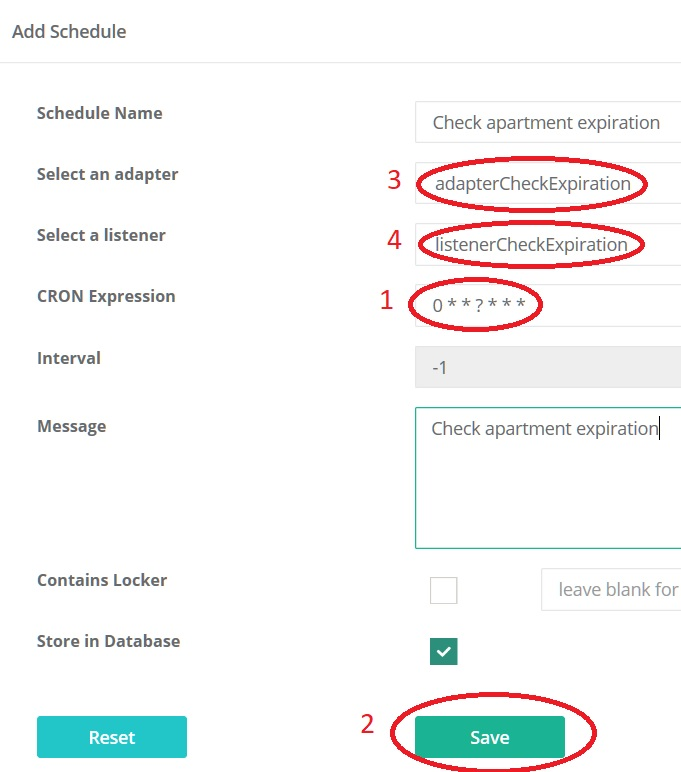
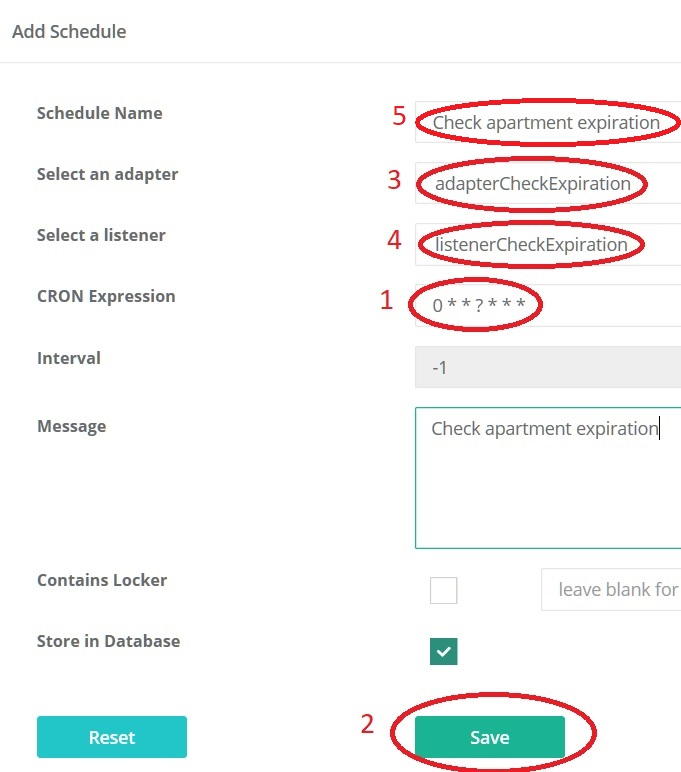
Correct previous commit and improve section on scheduling

Changed region(s): [[0.5859, 0.1244, 1.0, 0.2176]]

diff --git a/docs/source/operator/scheduling.rst b/docs/source/operator/scheduling.rst
@@ -7,13 +7,19 @@ Scheduling
 
 This section explains how to schedule tasks for periodic execution. This is very useful for batch processing jobs. You can also schedule tasks to do sanity checks of your site. You will practice with a sanity check for the database of the imaginary company New Horizons, see section :ref:`frankConsoleNewHorizons`.
 
-In section :ref:`frankConsoleConfigsUploading`, you saw two versions of the NewHorizons configuration. In the second version, we added the column "MODIFICATIONDATE" to the database table "product". We also added an adapter that checks whether apartments within the "product" table are up-to-date. An apartment is up-to-date if its modification date is less than two minuts ago.
+In section :ref:`frankConsoleConfigsUploading`, you saw two versions of the NewHorizons configuration. In the second version, we added the column "MODIFICATIONDATE" to the database table "product". We also added an adapter that checks whether all apartments within the "product" table are up-to-date. An apartment is up-to-date if its modification date is less than two minutes ago. You will schedule this adapter.
+
+Preparations
+------------
 
 If you just did the previous section :ref:`frankConsoleConfigsUploading`, you do not have to do anything to prepare yourself. Otherwise please do the following:
 
 #. Ensure that the second version of the NewHorizons config is running. Here is the :download:`download link <../downloads/configurations/forFrankConsole_2.zip>` again. It is not important whether you are uploading your config to the database or whether you have it on the file system.
 #. Ensure that the directories ``work\input``, ``work\processing``, ``work\processed`` and ``work\error`` do exist and are empty. See :ref:`frankConsolePreparations` for more information.
 #. Ensure that database table "product" is empty.
+
+Scheduling a job
+----------------
 
 Now that you are prepared, please continue as follows:
 
@@ -29,6 +35,10 @@ Now that you are prepared, please continue as follows:
 
    .. image:: schedulingPauseButton.jpg
 
+   .. WARNING::
+
+      Presently, the Pause button number 2 does not work. See GitHub issue https://github.com/ibissource/iaf/issues/718.
+
 #. You need a string that defines how often you want to run your adapter. To get that string, you have to know that the scheduler of the Frank!Framework uses a Java component called "quartz". When you search the internet for "quartz expression", you may find the following site: https://www.freeformatter.com/cron-expression-generator-quartz.html.
 #. Here you can specify that you want to run your task every minute. The site will give you the string ``0 * * ? * * *``. You will use it later.
 #. Press the "Add new schedule" button. You see the page shown below:
@@ -37,20 +47,69 @@ Now that you are prepared, please continue as follows:
 
 #. Fill in the string you found in step 5. You should put it in the text field annotated with number 1.
 #. Select adapter "adapterCheckExpiration" (number 3) and the only possible listener "listenerCheckExpiration" (number 4). In a realistic situation, you should ask a Frank developer for these names.
+#. For the schedule name number 5, enter "Check apartment expiration". This name will be referenced in the reminder of this page.
 #. Put something in the "Message" field.
 #. Leave check box "Store in Database" checked. This way, your schedule remains active after you restart the Frank!Runner.
-#. Press "Save". To the top, a green bar should appear.
+#. Press "Save" (number 2). To the top, a green bar should appear.
 #. To the top-right, there is a button "Back". Please press it.
 #. You are back in the main page of the scheduler. Now there is a job group "NewHorizons" as shown below:
 
    .. image:: schedulingJobGroupNewHorizons.jpg
 
+   .. NOTE::
+
+      You see that scheduled jobs are grouped by Frank config. The Frank config of a job follows from the adapter being scheduled.
+
 You can see when your adapter was executed last and when it will fire next. You can see that there is one minute between these times as you intended. Now you will examine what your job is doing.
 
-14. In the main menu, go to "Logging". search for the messate "There were 0 expired apartments" with log level "INFO". The loglevel should have a time stamp with seconds "00".
+15. In the main menu, go to "Logging". search for the message "There were 0 expired apartments" with log level "INFO". The loglevel should have a time stamp with seconds "00".
 
 **Exercise:** Use the NewHorizons config to enter some apartments like you did in the previous sections of this chapter. After about three minutes, you should see a messages with log level "ERROR" and text "There were n expired apartments" with n the number of apartments you entered.
 
 .. NOTE::
 
    Frank configs that write to the logfile can be used to set up a monitoring page. There are tools in the market that scan logfiles and build a dashboard with monitoring information. An example is Splunk, https://www.splunk.com.
+
+16. Please go to Testing | Ladybug. To the top-left, you see a table with a row for each adapter execution.
+#. Press "Refresh".
+#. Please check that adapter "checkExpiration" runs every minute at second zero, see picture below:
+
+   .. image:: schedulingLadybugEveryMinute.jpg
+
+Pause and resume
+----------------
+
+You can pause and resume scheduled jobs. To investigate, please continue as follow:
+
+19. Go to the main page of the Scheduler (main menu option "Scheduler"). Scroll down to job group "NewHorizons". To the far-right, you see the following buttons:
+
+    .. image:: schedulingJobGroupButtons.jpg
+
+The shown buttons are next to job "Check apartment expiration". You see that you can edit, delete, pause and trigger each job. Deleting and editing speak for themselves, but you will investigate triggering and pausing. Please continue as follows:
+
+20. In the Windows taskbar, you have a clock as shown below. Please click it to expand it. In this new window, you also see the seconds.
+
+    .. image:: schedulingWindowsClock.jpg
+
+#. Please follow the seconds of the clock until a new minute starts. Wait a few seconds and then trigger job "Check apartment expiration". Then watch the seconds again until a new minute has started.
+#. Go to Testing | Ladybug and press "Refresh". You will examine the minutes and the seconds of your last three adapter runs. See the figure below:
+
+   .. image:: schedulingLadybugTrigger.jpg
+
+You see a job execution that did not happen at seconds "00". Pressing the "trigger" button causes a job to be executed immediately. This has no effect on the scheduled moments for the job. The job is still executed at the next moment it is due.
+
+23. Please return to the main page of the scheduler and scroll down to job group "NewHorizons".
+#. Please follow the seconds of the clock until a new minute starts. Wait a few seconds and then pause "Check apartment expiration". The pause button will change into " Resume". Wait until the next minute starts and then again wait a few seconds. Then press "Resume".
+#. Go to Testing | Ladybug and press "Refresh". Examine the minutes and the seconds of the last two adapter runs. See the figure below:
+
+   .. image:: schedulingLadybugAfterResume.jpg
+
+The first run is at the beginning of a new minute. In this minute, you paused the job. You did not start it before the new minute started, so the next run is not at the beginning of the next minute. You see that the job was executed immediately when you pressed "Resume".
+
+.. WARNING::
+
+   When you pause a job and later resume it, the scheduler checks whether a scheduled moment passed during the job pause. If so, the scheduler executes the job immediately on resume. Otherwise, resuming the job does not caause immediate execution. When a job is resumed before the next scheduled moment, the scheduler awaits that moment, executing the job at its due time.
+
+.. WARNING::
+
+   WeAreFrank! considers changing the scheduler. It may be better when a resumed job would not be executed automatically, because the operator has the option to manually trigger it. This consideration is expressed in the following GitHub issue: https://github.com/ibissource/iaf/issues/764.

diff --git a/docs/source/advancedDevelopment/properties/framework.rst b/docs/source/advancedDevelopment/properties/framework.rst
@@ -58,7 +58,7 @@ warnings.suppress.defaultvalue
   In a Frank config, you can assign values to properties. Some properties have a default value. When you assign to a property its default value, the Frank!Framework detects this redundant assignment. When this property is false (the default), the Frank!Framework issues a warning in the status page of the Frank!Console. When this property is true, the warning is suppressed.
 
 loadDatabaseSchedules.active
-  If true, the Frank!Console allows its users to upload Frank configs to the database. See section :ref:`frankConsoleScheduling`. The default value is ``false``.
+  If true, the Frank!Console allows its users to upload Frank configs to the database. See section :ref:`frankConsoleConfigsUploading`. The default value is ``false``.
 
 .. NOTE::
 
